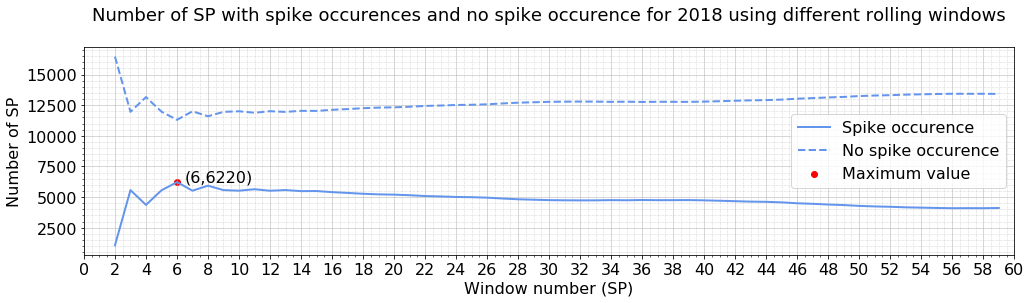
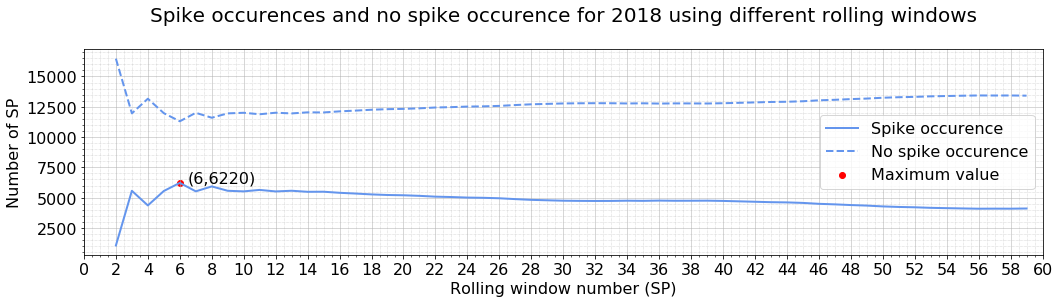
More changes on the graphs for spike classification - last adjustments

Changed region(s): [[0.0, 0.1485, 0.9932, 0.9802], [0.0931, 0.0, 0.9932, 0.0891]]

diff --git a/_Spike_Classification/Visualisation_Spike_BinaryDataSet.py b/_Spike_Classification/Visualisation_Spike_BinaryDataSet.py
@@ -187,7 +187,7 @@ plt.scatter(spike_var_17[spike_var_17['num_spikes'] == max_spike_17].window, max
 plt.text(spike_var_17[spike_var_17['num_spikes'] == max_spike_17].window + 0.5, max_spike_17 - 500, '({},{})'.format(spike_var_17[spike_var_17['num_spikes'] == max_spike_17].window.iloc[0], max_spike_17), fontsize = fontsize - 2)
 plt.scatter(spike_var_16[spike_var_16['num_spikes'] == max_spike_16].window, max_spike_16 , color = 'red')
 plt.text(spike_var_16[spike_var_16['num_spikes'] == max_spike_16].window , max_spike_16 + 100, '({},{})'.format(spike_var_16[spike_var_16['num_spikes'] == max_spike_16].window.iloc[0], max_spike_16), fontsize = fontsize - 2)
-plt.title('Number of spike occurences using different roling windows\n', fontsize= fontsize + 2)
+plt.title('Number of spike occurences using different roling windows\n', fontsize= fontsize + 4)
 plt.minorticks_on()
 plt.grid(which='major', linestyle='-', linewidth='0.5')
 plt.grid(which='minor', linestyle=':', linewidth='0.5')
@@ -203,8 +203,8 @@ plt.figure(figsize=(15,4.5))
 plt.plot(range_w, spike_var_18['num_spikes'], linewidth = 2, label = 'Spike occurence', color = 'cornflowerblue')
 plt.plot(range_w, spike_var_18['num_normal'], linewidth = 2, label = 'No spike occurence', linestyle = 'dashed', color = 'cornflowerblue')
 plt.ylabel('Number of SP', fontsize = fontsize)
-plt.xlabel('Window number (SP)', fontsize = fontsize)
-plt.title('Number of SP with spike occurences and no spike occurence for 2018 using different rolling windows\n', fontsize = fontsize + 2)
+plt.xlabel('Rolling window number (SP)', fontsize = fontsize)
+plt.title('Spike occurences and no spike occurence for 2018 using different rolling windows\n', fontsize = fontsize + 4)
 plt.xticks(np.arange(0, 62, 2), fontsize = fontsize)
 plt.yticks([0, 2500, 5000, 7500, 10000, 12500, 15000, 17500], fontsize = fontsize)
 plt.xlim(0, 60)
@@ -218,6 +218,9 @@ plt.legend(fontsize = fontsize)
 plt.tight_layout()
 plt.show()
 #plt.savefig('Spike_occur_2018.png')
+
+ans = (spike_var_18['num_spikes'][46]/(spike_var_18['num_normal'][46] + spike_var_18['num_spikes'][46])) * 100
+print("Percentage of spike SPs for 2018: {}%".format(int(ans)))
 
 # =============================================================================
 # THIRD: PLOT SPIKES PER MONTH
@@ -284,7 +287,7 @@ ax1.plot([1, 2, 3, 4, 5, 6, 7, 8, 9, 10, 11, 12], count_16, color = 'plum', labe
 ax1.set_xticks([1,2,3,4,5,6,7,8,9, 10, 11,12])
 ax1.set_xlim([1,12])
 ax1.legend(fontsize = fontsize)
-ax1.set_title('Number of spikes per month fand respective percentages\n', fontsize = fontsize + 3)
+ax1.set_title('Number of spikes per month and respective percentages\n', fontsize = fontsize + 4)
 
 ax2 = ax1.twinx()  # instantiate a second axes that shares the same x-axis
 ax2.set_ylabel('Percentage of SP (%)', fontsize = fontsize)
